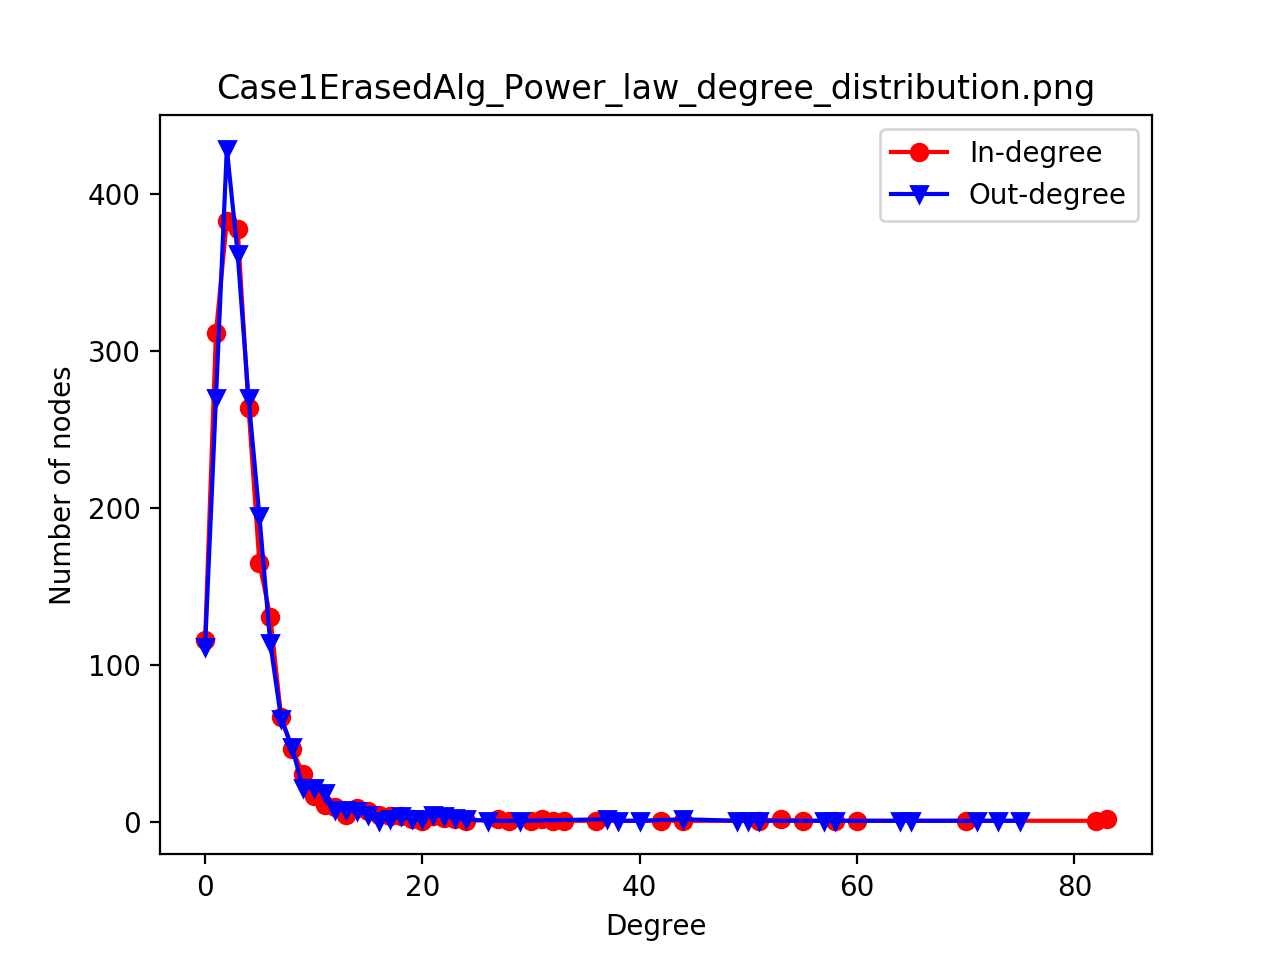
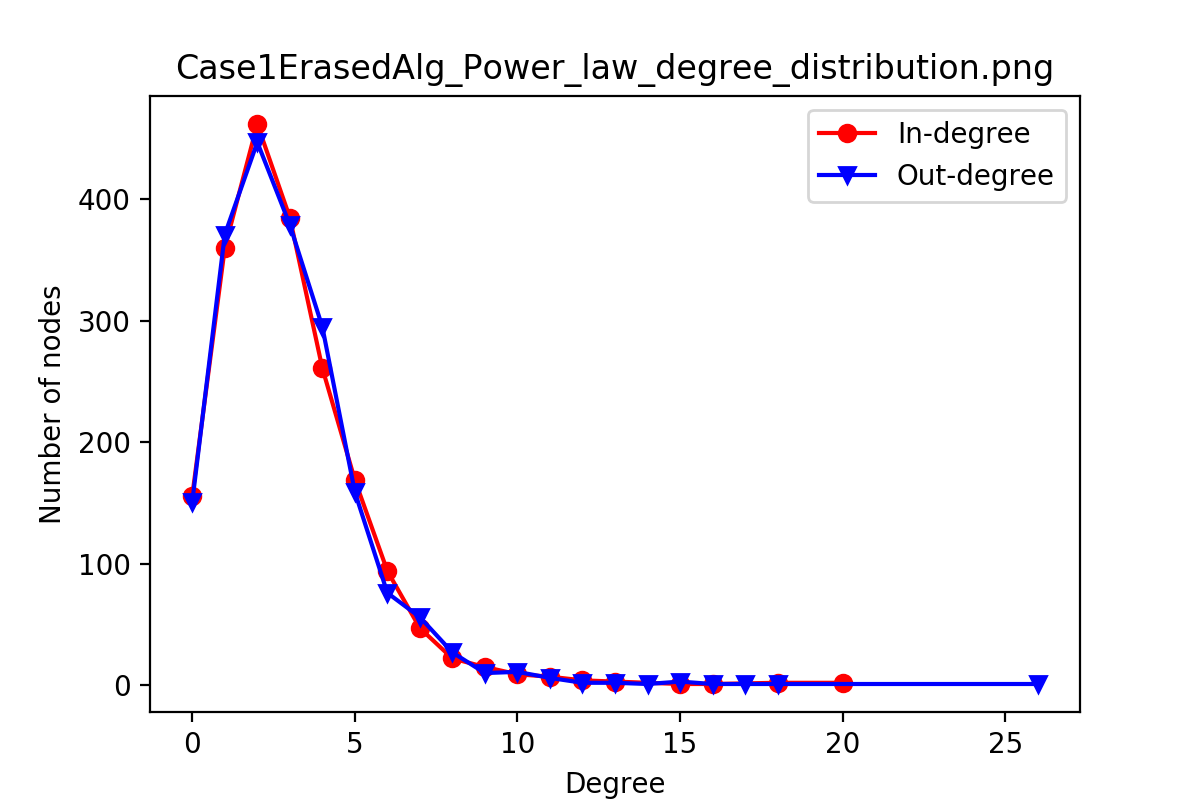
Degree Distributio Plot Method June 1

diff --git a/DCMGenerator.py b/DCMGenerator.py
@@ -1,6 +1,6 @@
+from collections import Counter
 import SDGErased as sdg_e
 import PowerLawDistribution as pld
-import ValidDegree as vd
 import matplotlib.pyplot as plt
 import SDGRepeated as sdg_r
 from ValidDegree import *
@@ -11,11 +11,41 @@ class CDMGenerator(object):
     def __init__(self, a, alpha, beta, n, algorithm, b=2):
         fg = pld.PowerLaw(a, alpha, beta, b)
         self.bi_seq = directed_gen(alpha, beta, fg, n)
+
         if algorithm == 'Erased':
             self.graph = sdg_e.gen_simple_DCM(self.bi_seq)
         if algorithm == 'RevisedRepeated':
             self.graph = sdg_r.gen_simple_DCM2(self.bi_seq)
         if algorithm == 'Repeated':
             self.graph = sdg_r.gen_simple_DCM(self.bi_seq)
+
+
+    def degrees_plot(self):
+        G = self.graph
+        G_in_degrees = G.in_degree()  # dictionary node:degree
+        G_in_values = sorted(set(G_in_degrees.values()))
+        G_in_hist = [Counter(G_in_degrees.values())[x] for x in G_in_values]
+        plt.plot(G_in_values, G_in_hist, 'ro-', markersize=5)  # in-degree
+
+        G_out_degrees = G.out_degree()
+        G_out_values = sorted(set(G_out_degrees.values()))
+        G_out_hist = [Counter(G_out_degrees.values())[x] for x in G_out_values]
+        plt.plot(G_out_values, G_out_hist, 'bv-', markersize=5)  # out-degree
+
+        # plot the sequence degree distribution
+        in_degrees = self.bi_seq[0]
+        in_values = sorted(set(in_degrees))
+        in_hist = [Counter(in_degrees)[x] for x in in_values]
+        plt.plot(in_hist, 'yo-', markersize=3)  # in-degree
+
+        out_degrees = self.bi_seq[1]
+        out_values = sorted(set(out_degrees))
+        out_hist = [Counter(out_degrees)[x] for x in out_values]
+        plt.plot(out_hist, 'cv-', markersize=3)  # out-degree
+
+        plt.legend(['Graph In-degree', 'Graph Out-degree', 'Sequence In-degree', 'Sequence Out-degree'])
+        plt.xlabel('Degree')
+        plt.ylabel('Number of nodes')
+        plt.xlim([0,40])
 
 

diff --git a/test.py b/test.py
@@ -1,3 +1,4 @@
+from collections import Counter
 import SDGErased as SDG
 import DCMGenerator as cdm_g
 import matplotlib.pyplot as plt
@@ -8,8 +9,8 @@ start = time.clock()
 # assign the parameters
 # [Special Case [Alpha = Beta]]
 a = 1 # the floor for W+
-alpha = 2.5 # the power for W+
-beta = 2.5 # the power for W+
+alpha = 3 # the power for W+
+beta = 3 # the power for W+
 b = 2.5
 
 n = 2000 # simulation times
@@ -20,32 +21,5 @@ n = 2000 # simulation times
 dcm = cdm_g.CDMGenerator(a,alpha, beta, n, 'Erased')
 D = dcm.graph
 
-
 # plot the bi-degree distribution with generated simple DCM degree distribution
-fig =plt.figure(1,figsize=(6,4))
-fig.subplots_adjust(bottom=0.025, left=0.025, top = 0.975, right=0.975)
-
-# plot the graph degree distribution
-sub1 = fig.add_subplot(2,2, (1,2))
-SDG.plot_hist(D, 'Case1ErasedAlg_Power_law_degree_distribution.png')
-
-# plot the sequence degree distribution
-sub2 = fig.add_subplot(2,2,3)
-plt.hist(dcm.bi_seq[0], bins ="auto", color = 'r' )
-plt.hist(dcm.bi_seq[1], bins ="auto", color = 'b')
-plt.legend(['In-degree', 'Out-degree'])
-
-# plot the sequence degree bivariate distribution
-sub3 = fig.add_subplot(2,2,4)
-plt.hist2d(dcm.bi_seq[0],dcm.bi_seq[1])
-cbar = plt.colorbar()
-cbar.ax.set_ylabel('Counts')
-plt.xlabel('In-degree')
-plt.ylabel('Out-degree')
-
-# plot the graph
-plt.figure(2)
-SDG.plot_graph(D, 'Case1ErasedAlg_Graph.png')
-
-elapsed = (time.clock() - start)
-print("Time used:",elapsed)
+dcm.degrees_plot()

diff --git a/ValidDegree.py b/ValidDegree.py
@@ -20,7 +20,7 @@ def directed_gen(alpha, beta, fg, n):
     tol = n ** (1 - kappa + delta_0) # take the tolerance limit for delta_n
 
     # derive the sample bi-degree sequence
-    bi_seq = fg.iid(n)
+    bi_seq = fg.rvs(n)
     in_seq = bi_seq[0]  # the sample in-degree sequence
     out_seq = bi_seq[1]  # the sample out-degree sequence
     original = bi_seq
@@ -34,7 +34,7 @@ def directed_gen(alpha, beta, fg, n):
     # repeat sample generation until Delta_n is small enough to be "negligible"
     while abs(delta_n) > tol:
         # repeat the sample working
-        bi_seq = fg.iid(n)
+        bi_seq = fg.rvs(n)
         in_seq = bi_seq[0]
         out_seq = bi_seq[1]
 

diff --git a/PowerLawDistribution.py b/PowerLawDistribution.py
@@ -73,12 +73,13 @@ def difference(bi_degree):
     delta_n = in_sum - out_sum
     return delta_n
 
+
 # test for the convergence of bi_degree sequence
 N = range(1000,6000,1000)
 a = 1
 alpha = 3
 
-def test_beta(beta, rep):
+def test_converg_speed(alpha, beta, N,  rep = 10, a = 1):
     power_law = PowerLaw(a, alpha, beta)
     relative_diff = []
     for n in N:
